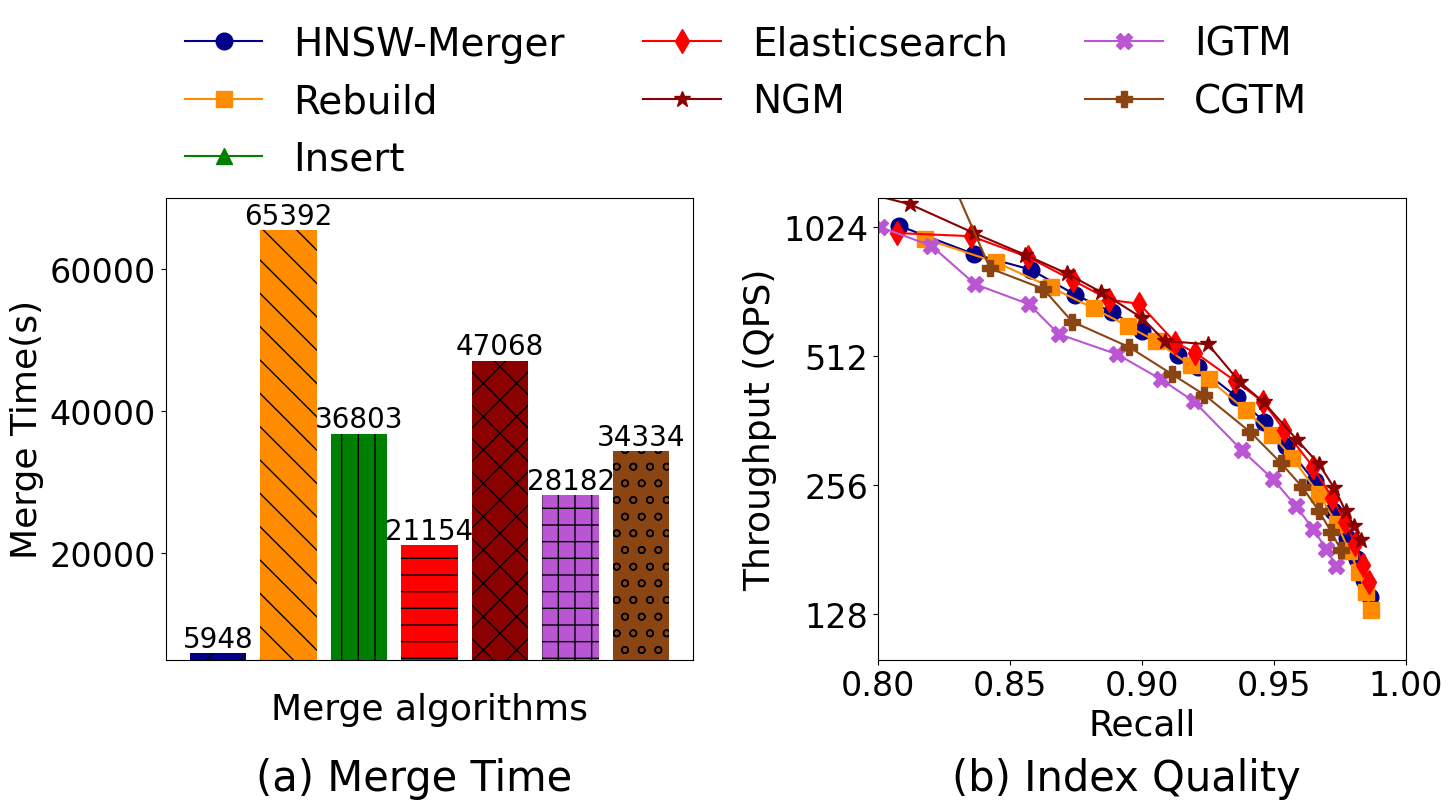
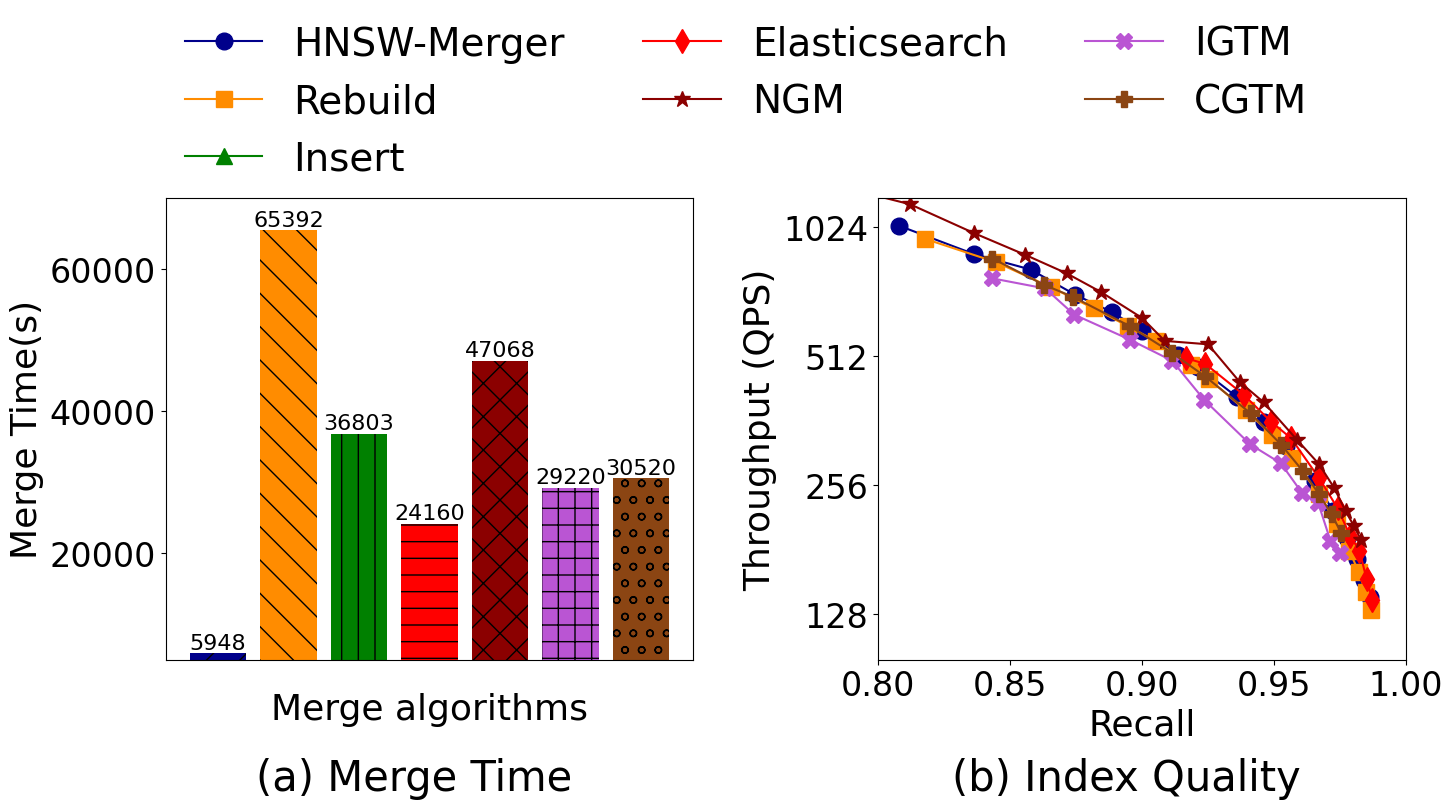
update for experiment figures

diff --git a/HNSW-Merger/baseline2.h b/HNSW-Merger/baseline2.h
@@ -147,6 +147,7 @@ HierarchicalNSW<dist_t> *HNSWMerger_Naive(HierarchicalNSW<dist_t> *index1, Hiera
 
             tableint entry_point = -1;
 
+            // We follow the idea in their paper, using HNSW search in index construction phase, not limiting the search to M neighbors
             index2->search2Layer(data_point, entry_point, maxLevel, level, search_ef, &top_candidates, index2_offset);
             ll_cur = index1->get_linklist_at_level(cur_c, level);
             linklistCount = index1->getListCount(ll_cur);
@@ -176,6 +177,7 @@ HierarchicalNSW<dist_t> *HNSWMerger_Naive(HierarchicalNSW<dist_t> *index1, Hiera
 
             tableint entry_point = -1;
 
+            // We follow the idea in their paper, using HNSW search in index construction phase, not limiting the search to M neighbors
             index1->search2Layer(data_point, entry_point, maxLevel, level, search_ef, &top_candidates, index1_offset);
             ll_cur = index2->get_linklist_at_level(cur_c, level);
             linklistCount = index2->getListCount(ll_cur);
@@ -300,11 +302,15 @@ HierarchicalNSW<dist_t> *HNSWMerger_IGTM(HierarchicalNSW<dist_t> *index1, Hierar
                         std::vector<std::pair<dist_t, tableint>>,
                         typename HierarchicalNSW<dist_t>::CompareByFirst>
                         origin = index2->ExtendSearchBaseLayer(
-                            data_point, 
-                            level, 
-                            &starting_eps, 
+                            data_point,
+                            level,
+                            &starting_eps,
                             local_ef);
                     starting_eps.clear();
+
+                    while (origin.size() > (size_t)Mcurmax) {
+                        origin.pop();
+                    }
 
                     std::priority_queue<
                         std::pair<dist_t, tableint>,
@@ -367,6 +373,7 @@ HierarchicalNSW<dist_t> *HNSWMerger_IGTM(HierarchicalNSW<dist_t> *index1, Hierar
                     if (new_c == -1) break;
                     cur_c = new_c;
                     not_done1.erase(cur_c);
+                    data_point = index1->getDataByInternalId(cur_c);
                 }
             }
         };
@@ -457,7 +464,7 @@ HierarchicalNSW<dist_t> *HNSWMerger_CGTM(HierarchicalNSW<dist_t> *index1, Hierar
             while (true) {
                 not_done.erase(cur_c);
                 data_point = alg_hnsw->getDataByInternalId(cur_c);
-                
+
                 if ((++global_count) % 200000 == 0) {
                     printf("[log] Index merge process %d / %d, time %f\n", global_count, layer_node_for_index1[level].size() + layer_node_for_index2[level].size(), elapsed() - s0);
                 }
@@ -469,11 +476,12 @@ HierarchicalNSW<dist_t> *HNSWMerger_CGTM(HierarchicalNSW<dist_t> *index1, Hierar
                 std::priority_queue<std::pair<dist_t, tableint>, std::vector<std::pair<dist_t, tableint>>, typename HierarchicalNSW<dist_t>::CompareByFirst> top_candidates1;
                 origin1 = index1->ExtendSearchBaseLayer(data_point, level, &starting_eps1, local_ef);
                 starting_eps1.clear();
+                while (origin1.size() > (size_t)Mcurmax) {
+                    origin1.pop();
+                }
                 while (!origin1.empty()) {
                     top_candidates1.emplace(origin1.top().first, origin1.top().second + index1_offset);
-                    if (origin1.size() <= search_M) {
-                        starting_eps1.emplace(origin1.top().second);
-                    }
+                    starting_eps1.emplace(origin1.top().second);
                     if (origin1.size() <= next_step_k && not_done.find(origin1.top().second + index1_offset) != not_done.end() && origin1.top().first < distBound) {
                         distBound = origin1.top().first;
                         new_c = origin1.top().second + index1_offset;
@@ -485,11 +493,12 @@ HierarchicalNSW<dist_t> *HNSWMerger_CGTM(HierarchicalNSW<dist_t> *index1, Hierar
                 std::priority_queue<std::pair<dist_t, tableint>, std::vector<std::pair<dist_t, tableint>>, typename HierarchicalNSW<dist_t>::CompareByFirst> top_candidates2;
                 origin2 = index2->ExtendSearchBaseLayer(data_point, level, &starting_eps2, local_ef);
                 starting_eps2.clear();
+                while (origin2.size() > (size_t)Mcurmax) {
+                    origin2.pop();
+                }
                 while (!origin2.empty()) {
                     top_candidates2.emplace(origin2.top().first, origin2.top().second + index2_offset);
-                    if (origin2.size() <= search_M) {
-                        starting_eps2.emplace(origin2.top().second);
-                    }
+                    starting_eps2.emplace(origin2.top().second);
                     if (origin2.size() <= next_step_k && not_done.find(origin2.top().second + index2_offset) != not_done.end() && origin2.top().first < distBound) {
                         distBound = origin2.top().first;
                         new_c = origin2.top().second + index2_offset;

diff --git a/HNSW-Merger/extension.h b/HNSW-Merger/extension.h
@@ -162,12 +162,20 @@ HierarchicalNSW<dist_t>::ExtendSearchBaseLayer(const void *query_data,
                                                int level,
                                                std::unordered_set<tableint> *eps,
                                                size_t local_ef) {
-    if (local_ef == -1) local_ef = ef_construction_;
+    size_t beamWidth;
+    if (local_ef == -1) { 
+        local_ef = ef_construction_;
+        beamWidth = level == 0 ? (size_t)(maxM_ * 2 / 3) : (size_t)(maxM_); 
+    }
+    else{
+        beamWidth = level == 0 ? (size_t)(local_ef / 3) : (size_t)(local_ef/2); 
+    }
     VisitedList *vl = visited_list_pool_->getFreeVisitedList();
     vl_type *visited_array = vl->mass;
     vl_type visited_array_tag = vl->curV;
 
     std::priority_queue<std::pair<dist_t, tableint>, std::vector<std::pair<dist_t, tableint>>, CompareByFirst> top_candidates;
+    std::priority_queue<std::pair<dist_t, tableint>, std::vector<std::pair<dist_t, tableint>>, CompareByFirst> top_candidates2;
     std::priority_queue<std::pair<dist_t, tableint>, std::vector<std::pair<dist_t, tableint>>, CompareByFirst> candidateSet;
 
     dist_t lowerBound = std::numeric_limits<dist_t>::max();
@@ -175,16 +183,29 @@ HierarchicalNSW<dist_t>::ExtendSearchBaseLayer(const void *query_data,
     for (const tableint &val : *eps) {
         dist_t dist = fstdistfunc_(query_data, getDataByInternalId(val), dist_func_param_);
         top_candidates.emplace(dist, val);
-        lowerBound = std::min(dist, lowerBound);
         candidateSet.emplace(-dist, val);
         visited_array[val] = visited_array_tag;
-        if (top_candidates.size() > local_ef)
+        if (top_candidates.size() > beamWidth) {
+            top_candidates2.emplace(top_candidates.top());
             top_candidates.pop();
+            if (top_candidates2.size() > local_ef) {
+                top_candidates2.pop();
+            }
+        }
+    }
+    if (top_candidates.empty()) {
+        lowerBound = std::numeric_limits<dist_t>::max();
+    } else {
+        if (top_candidates.size() + top_candidates2.size() >= local_ef || top_candidates2.size() == 0) {
+            lowerBound = top_candidates.top().first;
+        } else {
+            lowerBound = top_candidates2.top().first;
+        }
     }
 
     while (!candidateSet.empty()) {
         std::pair<dist_t, tableint> curr_el_pair = candidateSet.top();
-        if ((-curr_el_pair.first) > lowerBound && top_candidates.size() == local_ef) {
+        if ((-curr_el_pair.first) > lowerBound && (top_candidates.size() + top_candidates2.size() >= local_ef)) {
             break;
         }
         candidateSet.pop();
@@ -215,25 +236,39 @@ HierarchicalNSW<dist_t>::ExtendSearchBaseLayer(const void *query_data,
             char *currObj1 = (getDataByInternalId(candidate_id));
 
             dist_t dist1 = fstdistfunc_(query_data, currObj1, dist_func_param_);
-            if (top_candidates.size() < local_ef || lowerBound > dist1) {
+            if ((top_candidates.size() + top_candidates2.size() < local_ef) || lowerBound > dist1) {
                 candidateSet.emplace(-dist1, candidate_id);
 #ifdef USE_SSE
                 _mm_prefetch(getDataByInternalId(candidateSet.top().second), _MM_HINT_T0);
 #endif
 
-                if (!isMarkedDeleted(candidate_id))
+                if (!isMarkedDeleted(candidate_id)) {
                     top_candidates.emplace(dist1, candidate_id);
+                }
 
-                while (top_candidates.size() > local_ef)
+                while (top_candidates.size() > beamWidth) {
+                    top_candidates2.emplace(top_candidates.top());
                     top_candidates.pop();
+                    if (top_candidates2.size() > local_ef - beamWidth) {
+                        top_candidates2.pop();
+                    }
+                }
 
-                if (!top_candidates.empty())
-                    lowerBound = top_candidates.top().first;
+                if (!top_candidates.empty()) {
+                    if (top_candidates.size() + top_candidates2.size() >= local_ef || top_candidates2.size() == 0) {
+                        lowerBound = top_candidates.top().first;
+                    } else {
+                        lowerBound = top_candidates2.top().first;
+                    }
+                }
             }
         }
     }
     visited_list_pool_->releaseVisitedList(vl);
-
+    while (!top_candidates2.empty()) {
+        top_candidates.emplace(top_candidates2.top());
+        top_candidates2.pop();
+    }
     return top_candidates;
 }
 

diff --git a/HNSW-Merger/experiment.cpp b/HNSW-Merger/experiment.cpp
@@ -202,7 +202,7 @@ void workload(const std::string &config_path) {
             }
         }
         printf("Insert task do not re-test the performance.\n");
-        return;
+        // return;
     } else if (merge_method == TWO_MERGE) {
         std::string save_base = cfg.save_path;
         if (cfg.rerun == true) {
@@ -225,7 +225,6 @@ void workload(const std::string &config_path) {
                     printf("Merged index not saved, rerun with save_index flag in config to save the index.\n");
                 }
             }
-            exit(0);
             alg_hnsw0 = alg_hnsw2;
         } else {
             std::string merged_index_path = save_base + "/merged-index_" + workloadTypeToString(workload_type) + ".hnsw";
@@ -516,7 +515,7 @@ void workload(const std::string &config_path) {
     for (int ef_val : cfg.efs_array) {
         alg_hnsw0->setEf(ef_val);
         printf("set ef = %d\n", ef_val);
-        for (int iter = 0; iter < 5; iter++) {
+        for (int iter = 0; iter < 2; iter++) {
             double t_search = 0.0;
             double t0 = elapsed();
             int *I = new int[nq * k];

diff --git a/HNSW-Merger/baseline.h b/HNSW-Merger/baseline.h
@@ -213,8 +213,10 @@ tableint HierarchicalNSW<dist_t>::addPoint(labeltype label,
                                                    &eps);
             std::priority_queue<std::pair<dist_t, tableint>, std::vector<std::pair<dist_t, tableint>>, CompareByFirst> cand(top_candidates);
             eps.clear();
-            while (!cand.empty()&&eps.size()<Mcurmax) {
-                eps.insert(cand.top().second);
+            while (!cand.empty()) {
+                if (cand.size() <= Mcurmax) {
+                    eps.insert(cand.top().second);
+                }
                 cand.pop();
             }
 

diff --git a/README.md b/README.md
@@ -10,7 +10,7 @@ This codebase is modified based on the [hnswlib](https://github.com/nmslib/hnswl
 
 - rebuild approach
 - insert-based approach
-- ElasticSearch approach: reimplemented from [JLucene](/lucene/lucene/core/src/java/org/apache/lucene/util/hnsw) and ElasticSearch [post](https://www.elastic.co/search-labs/blog/hnsw-graphs-speed-up-merging)
+- Elasticsearch approach: reimplemented from [JLucene](/lucene/lucene/core/src/java/org/apache/lucene/util/hnsw) and Elasticsearch [post](https://www.elastic.co/search-labs/blog/hnsw-graphs-speed-up-merging)
 - NGM: reimplemented from [codebase](https://github.com/aponom84/merging-navigable-graphs) and [paper](https://arxiv.org/abs/2505.16064)
 - IGTM: same with NGM
 - CGTM: same with NGM
@@ -22,7 +22,7 @@ Our change compared to the original [hnswlib](https://github.com/nmslib/hnswlib)
 ```
 ./
 ├── baseline2.h               // reimplementation of NGM, IGTM and CGTM
-├── baseline.h                // reimplementation of ElasticSearch approach
+├── baseline.h                // reimplementation of Elasticsearch approach
 ├── bruteforce.h  
 ├── build_index.cpp           // script for index construction
 ├── experiment.cpp            // script for index merge experiments
@@ -39,6 +39,17 @@ Our change compared to the original [hnswlib](https://github.com/nmslib/hnswlib)
 ├── test_readfile.h           // fvecs/ivecs/bvecs file read
 └── visited_list_pool.h
 ```
+
+To be noticed, our beam search function in `extension.h` is used for Elasticsearch, IGTM and CGTM. 
+
+### 0.3 Specific in Beam Search
+
+As we know, beam search can get a better index quality (on the same query per second level, index built by beam search can return more accurate results than the index built by the point search, which the original hnswlib implements), but a bad search cost because of too many candidates during search. 
+
+Our design as well as To make a fair comparison under the hnswlib framework, we limit the performance of beam search used in the merge algorithms. 
+We first choose the `lowerBound` to be the bandWidth-th nearest distance of the top distance, but still choose  `efc` neighbors during search operation in insert operation. This achieves a great balance between the lots of candidates during beam search and its high beam search latency. We validate our design to match the feature of Elasticsearch's [post](https://www.elastic.co/search-labs/blog/hnsw-graphs-speed-up-merging#experiment-1:-int8-quantization).
+
+The Elasticsearch approach with our beam search compared with the original hnswlib insert approach can match the experiment in the Elasticsearch's post. Their results are: compared to the insert-based approach (baseline), merge has a 1.72x speed up but has a compariable index quality. Our experiment in SIFT10M and DEEP10M fit this result. (Turing is a specific case and all the merge algorithms have a better index quality than rebuild/insert approach.)
 
 ## 1. Experiment Setup
 
@@ -126,6 +137,8 @@ make exp
 ## 2. Experiment Overview
 
 ### 2.1 Comparison between different merge algorithms on different datasets
+
+Summary: As for all the experiments, our HNSW-Merger algorithm outperforms all the baselines in terms of merge speed, and achieve compariable index quality with the best baseline in each experiment. 
 
 #### SIFT10M
 
